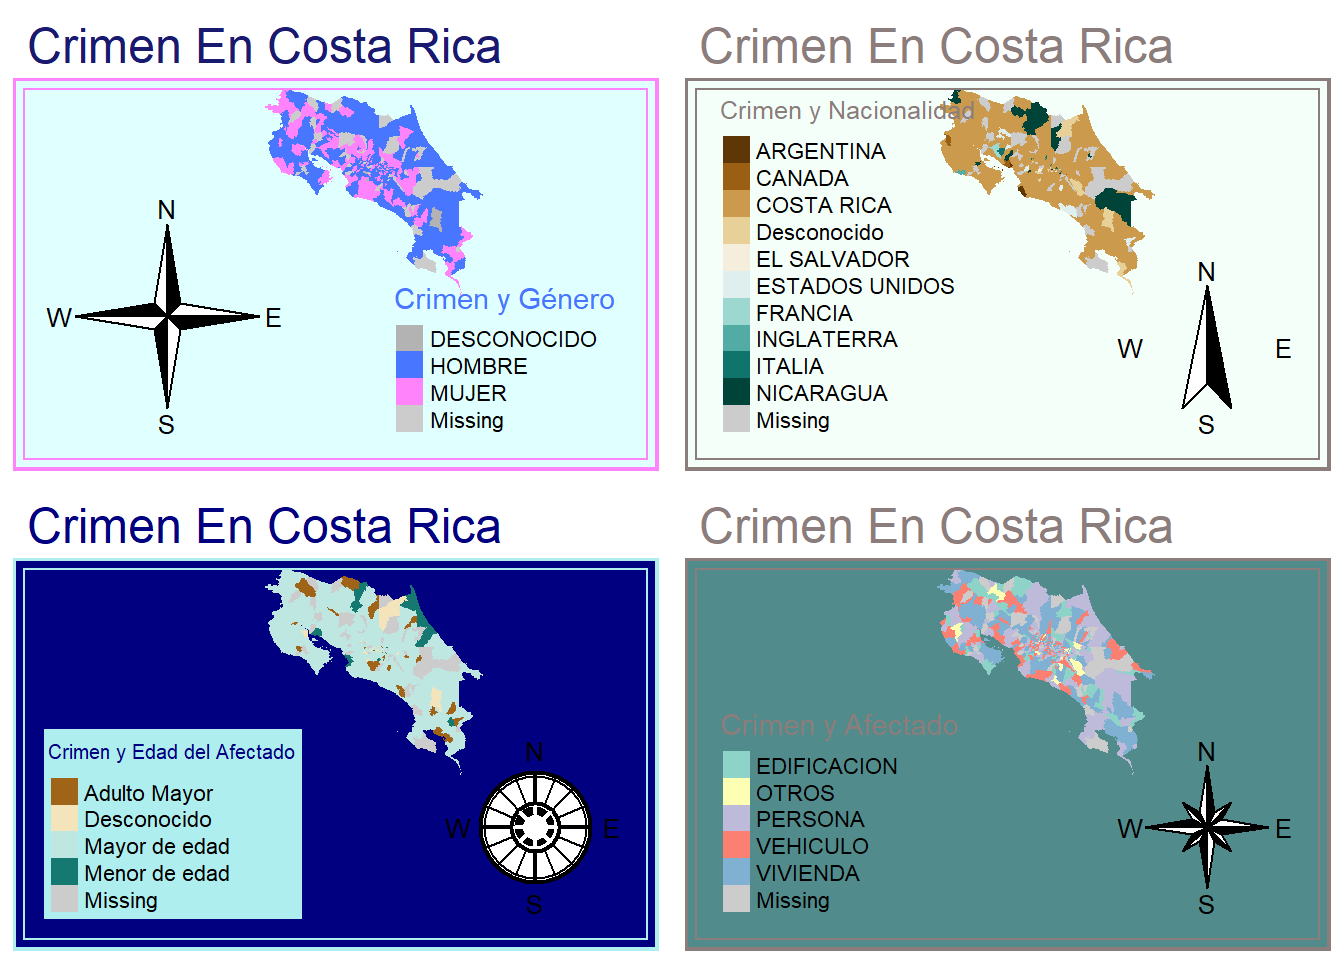
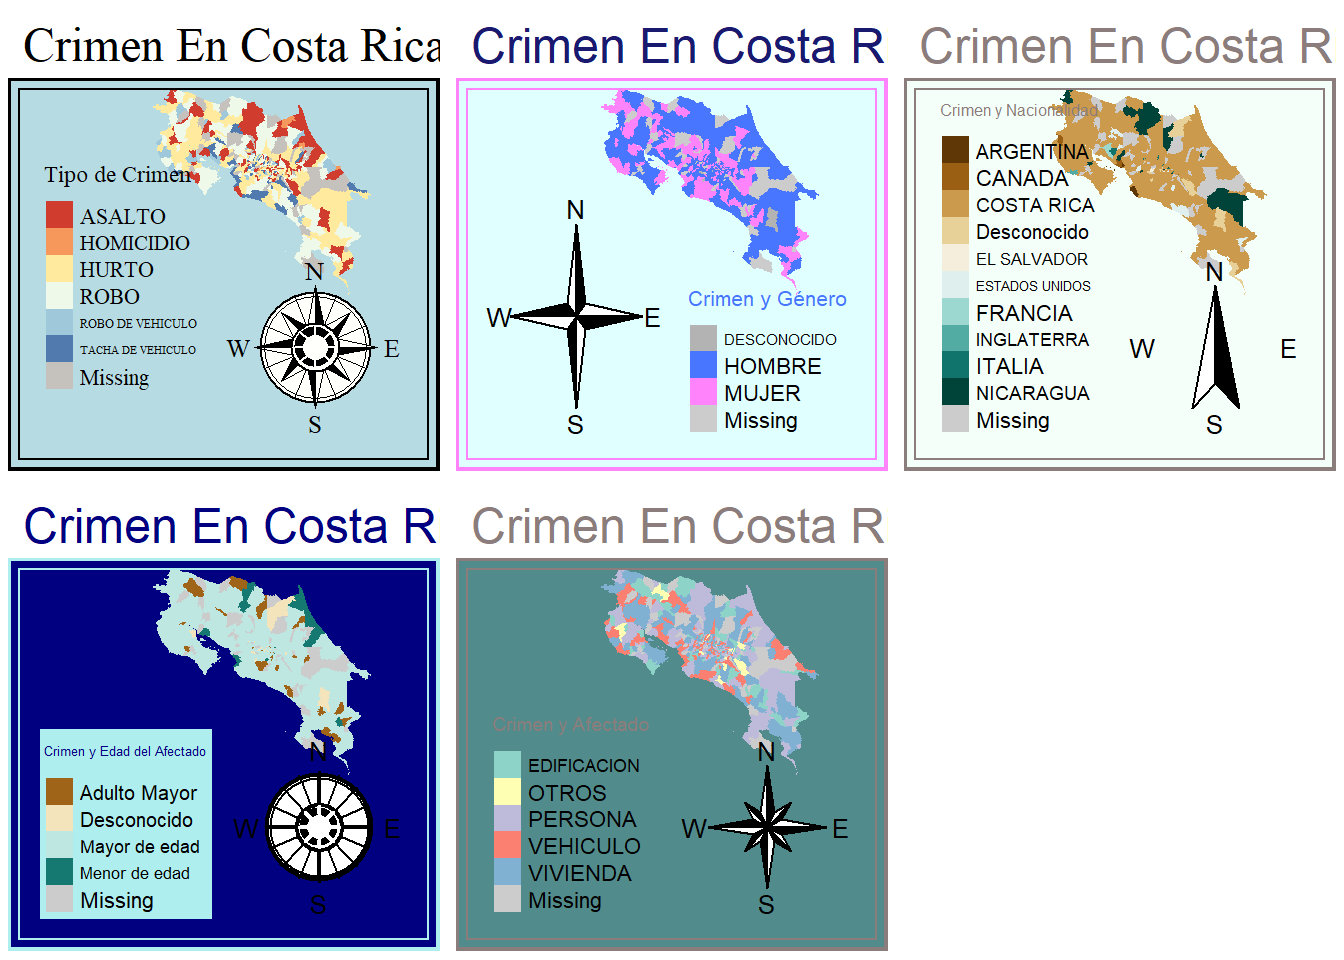
SIG backup

diff --git a/content/post/2020-12-01-r-rmarkdown/index.html b/content/post/2020-12-01-r-rmarkdown/index.html
@@ -1,9 +1,9 @@
 ---
-title: "Hello R Markdown"
-author: "Frida Gomam"
-date: 2020-12-01T21:13:14-05:00
+title: "Mapas Estáticos, Estadísticas policiales en Costa Rica"
+author: "Ana Guevara"
+date: 2021-02-02T21:13:14-05:00
 categories: ["R"]
-tags: ["R Markdown", "plot", "regression"]
+tags: []
 ---
 
 
@@ -162,7 +162,7 @@ MapaEdad = (tmap::tm_shape(puntosCR)+
 
 
 
-tmap::tmap_arrange(MapaGenero, MapaNacionalidad, MapaEdad, MapaVictima)
+tmap::tmap_arrange(MapaTipoCrimen ,MapaGenero, MapaNacionalidad, MapaEdad, MapaVictima)
 ## Warning: The shape puntosCR contains empty units.
 
 ## Warning: The shape puntosCR contains empty units.
@@ -174,9 +174,14 @@ tmap::tmap_arrange(MapaGenero, MapaNacionalidad, MapaEdad, MapaVictima)
 ## Warning: The shape puntosCR contains empty units.
 
 ## Warning: The shape puntosCR contains empty units.
-
+## Some legend labels were too wide. These labels have been resized to 0.64, 0.36, 0.34. Increase legend.width (argument of tm_layout) to make the legend wider and therefore the labels larger.
 ## Warning: The shape puntosCR contains empty units.
-
-## Warning: The shape puntosCR contains empty units.</code></pre>
+## Some legend labels were too wide. These labels have been resized to 0.47. Increase legend.width (argument of tm_layout) to make the legend wider and therefore the labels larger.
+## Warning: The shape puntosCR contains empty units.
+## Some legend labels were too wide. These labels have been resized to 0.60, 0.58, 0.62, 0.51, 0.40, 0.55, 0.59. Increase legend.width (argument of tm_layout) to make the legend wider and therefore the labels larger.
+## Warning: The shape puntosCR contains empty units.
+## Some legend labels were too wide. These labels have been resized to 0.60, 0.62, 0.54, 0.54. Increase legend.width (argument of tm_layout) to make the legend wider and therefore the labels larger.
+## Warning: The shape puntosCR contains empty units.
+## Some legend labels were too wide. These labels have been resized to 0.55. Increase legend.width (argument of tm_layout) to make the legend wider and therefore the labels larger.</code></pre>
 <p><img src="{{< blogdown/postref >}}index_files/figure-html/unnamed-chunk-1-1.png" width="672" /></p>
 </div>
